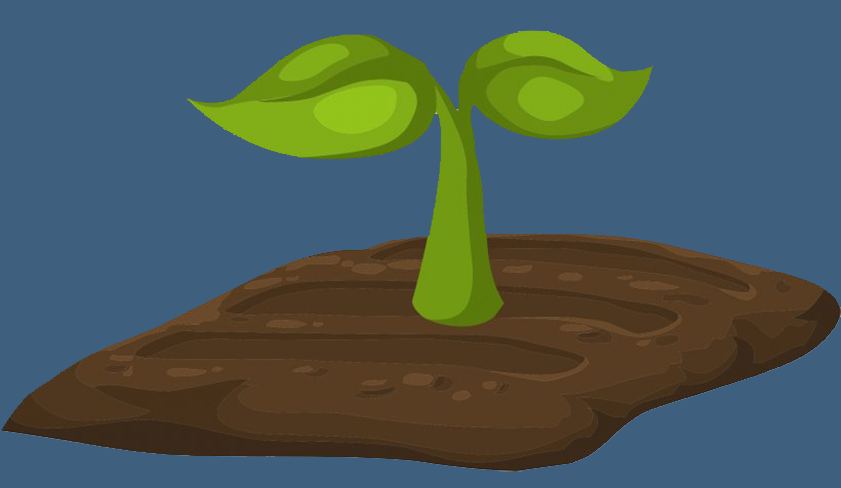
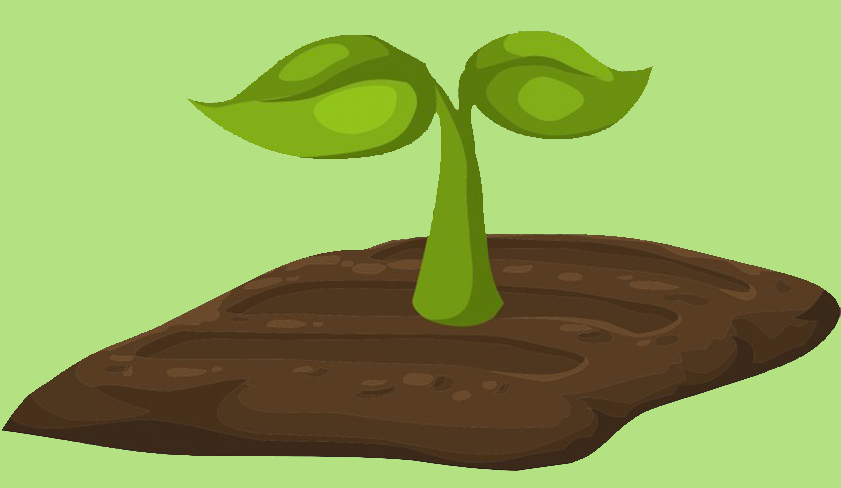
fixed colours

diff --git a/index.html b/index.html
@@ -26,7 +26,7 @@
         body {
             font-size: 12px;
             font-family: sans-serif;
-            background: #3f5f7e;
+            background: #c6e99f;
         }
 
         .bd-placeholder-img {
@@ -47,7 +47,7 @@
             position: relative;
             width: 100%;
             height: 50px;
-            background-color: #34495e;
+            background-color: #b4e282;
             border-radius: 8px;
             font-size: 0;
         }

diff --git a/profile.html b/profile.html
@@ -38,7 +38,7 @@
     margin-top:20px;
     color: #1a202c;
     text-align: left;
-    background-color: #e2e8f0;    
+    background-color: #b4e282;
 }
 .main-body {
     padding: 15px;
@@ -53,7 +53,7 @@
     flex-direction: column;
     min-width: 0;
     word-wrap: break-word;
-    background-color: #fff;
+    background-color: #c6e99f;
     background-clip: border-box;
     border: 0 solid rgba(0,0,0,.125);
     border-radius: .25rem;

diff --git a/reports.html b/reports.html
@@ -337,7 +337,7 @@
         labels: xlabels,
         datasets: [{
           label: 'Amount',
-          backgroundColor: 'rgb(153, 255, 102)',
+          backgroundColor: 'rgb(181, 126, 255)',
           borderColor: 'rgb(255, 99, 132)',
           data: yvalues
         }]

diff --git a/Login.html b/Login.html
@@ -31,7 +31,7 @@
     </script> -->
     <style>
         body{
-            background-color: #3f5f7e;
+            background-color: #c6e99f;
         }
     </style>
 
